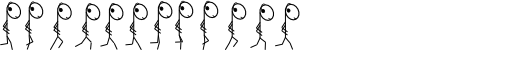
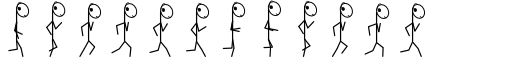
quick change to the demo animations.

Changed region(s): [[0.0, 0.0, 0.8438, 0.875]]

diff --git a/PumpAndJump/src/com/musicgame/PumpAndJump/game/gameStates/DemoGame.java b/PumpAndJump/src/com/musicgame/PumpAndJump/game/gameStates/DemoGame.java
@@ -113,11 +113,13 @@ public class DemoGame extends GameThread
 	    // begin a new batch and draw the bucket and
 	    // all drops
 	    batch.begin();
-	    int slidenum = (int)(bucket.x/8)%12;
-	    //if(slidenum<10)
-	    batch.draw(notedudeImage, bucket.x, bucket.y, 25*(slidenum), 0, 25, 50);
-	    //else
-	    	//batch.draw(notedudeImage, bucket.x, bucket.y, 25*(slidenum-10), 156, 25, 50);
+	    int slidecount = 12;
+	    int slidewidth = 36;
+	    int slideheight = 60;
+	    int slidenum = (int)(bucket.x/8)%slidecount;
+	    
+	    batch.draw(notedudeImage, bucket.x, bucket.y, slidewidth*(slidenum), 0, slidewidth, slideheight);
+
 	    for(Rectangle raindrop: raindrops) {
 	       batch.draw(dropImage, raindrop.x, raindrop.y);
 	    }

diff --git a/PumpAndJump/src/com/musicgame/PumpAndJump/Player.java b/PumpAndJump/src/com/musicgame/PumpAndJump/Player.java
@@ -1,17 +1,17 @@
 package com.musicgame.PumpAndJump;
 
-import com.musicgame.PumpAndJump.Animation.Animated;
+//import com.musicgame.PumpAndJump.Animation.Animated;
 import com.badlogic.gdx.math.Polygon;
 
-public class Player extends GameObject implements Animated{
+public class Player extends GameObject {//implements Animated{
 	public Player(Polygon hull)
 	{
 		super(hull);
 	}
 
-	@Override
-	public void UpdatePose(float pose) {
+	//@Override
+	//public void UpdatePose(float pose) {
 		// TODO Auto-generated method stub
 		
-	}
+	//}
 }
